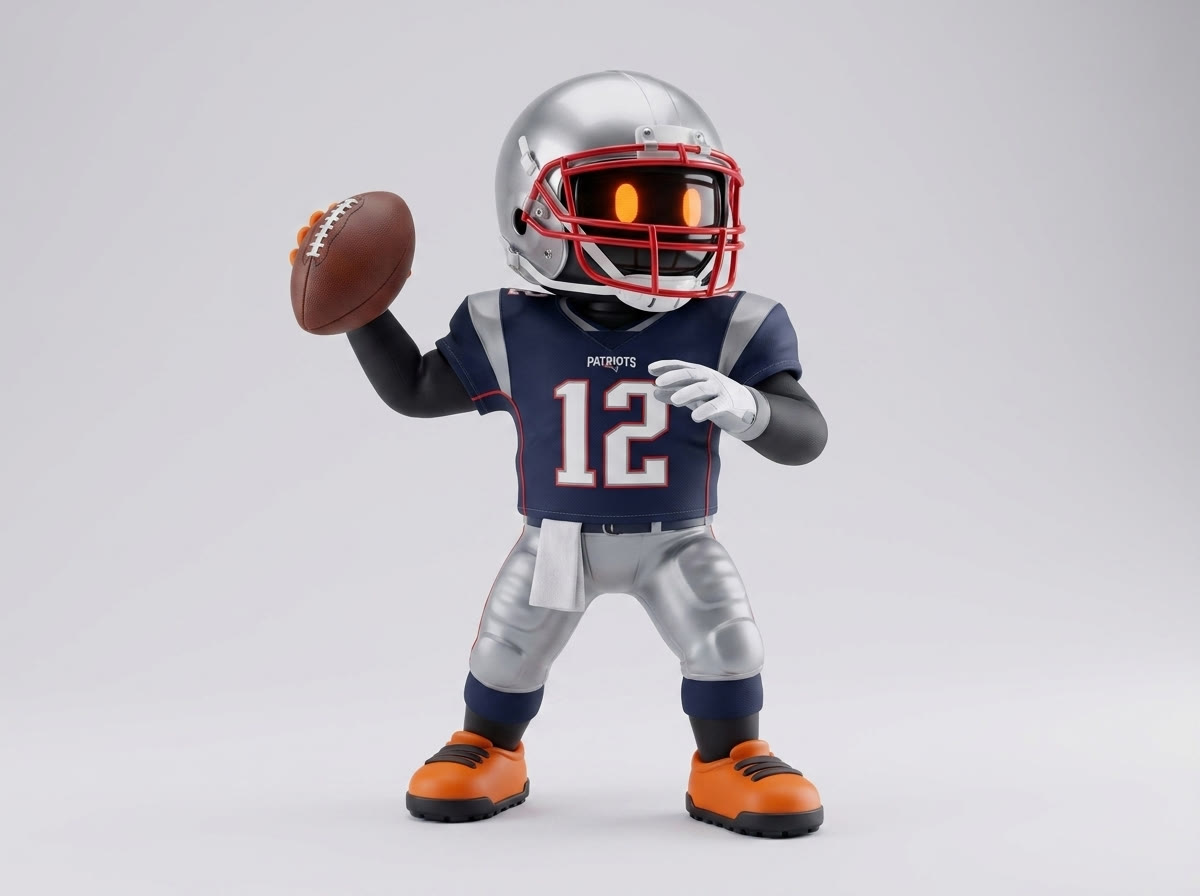
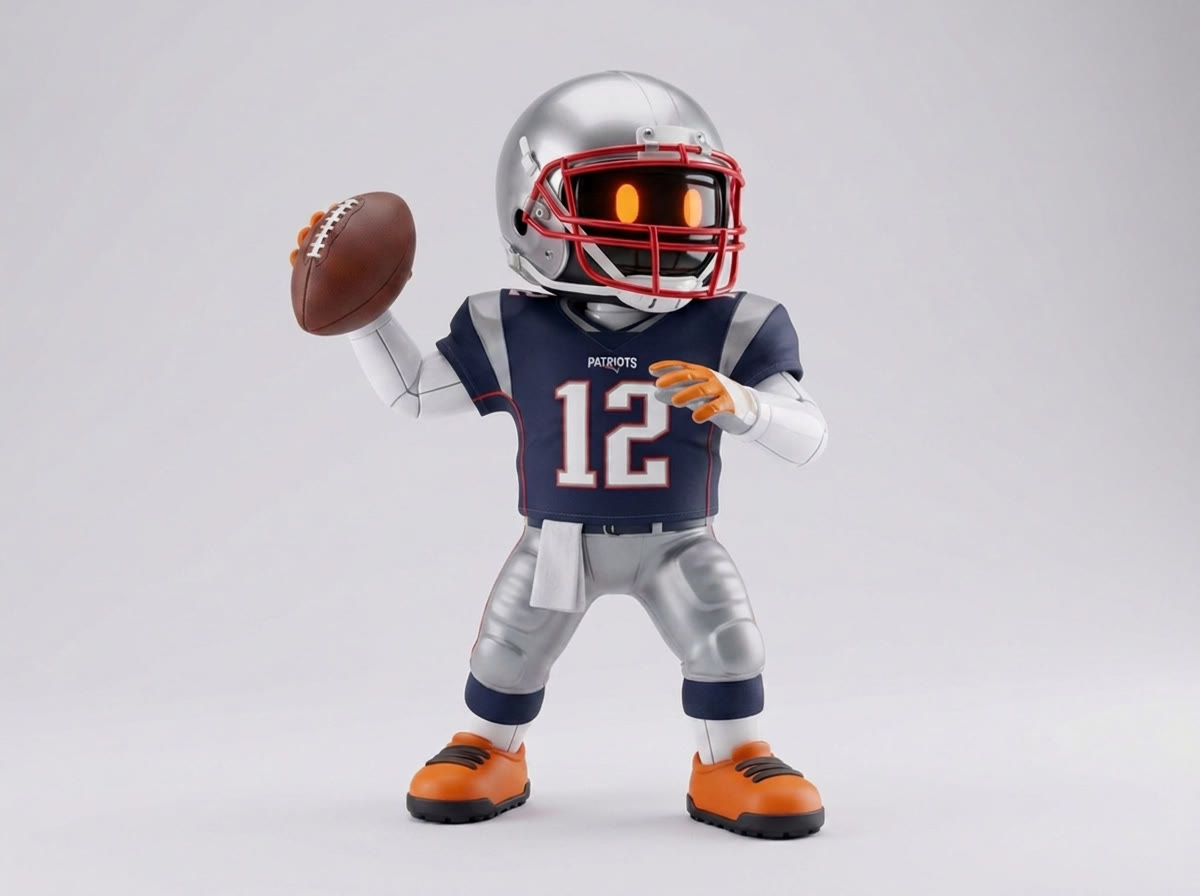
feat: Brady Bot goes white-shell
Both renders re-generated with a pristine white body — the home
colorway — keeping the uniform, poses, and orange accents. Fit list
and alt text updated to match.

Claude-Session: https://claude.ai/code/session_01KGGmAGPAvwDXRZzCcmfcH9

diff --git a/go-bot/src/data/persona.ts b/go-bot/src/data/persona.ts
@@ -128,6 +128,7 @@ export const personaFeatures: PersonaFeature[] = [
 			'apocalyptic in the pocket with the ball cocked back. Shown as a concept ' +
 			'for potential athlete-licensing partnerships.',
 		fit: [
+			'Pristine white shell — the home colorway',
 			'Navy 12 jersey with silver shoulder yokes and red piping',
 			'Black long-sleeve base layer under the pads',
 			'Silver game pants with a white towel tucked at the waist',
@@ -139,13 +140,13 @@ export const personaFeatures: PersonaFeature[] = [
 				src: '/assets/gobot/persona/brady-bot-sideline.jpg',
 				width: 1200,
 				height: 896,
-				alt: 'Brady Bot — Go-Bot in a navy number 12 football uniform holding a silver helmet under one arm and a football in the other hand',
+				alt: 'Brady Bot — white-shelled Go-Bot in a navy number 12 football uniform holding a silver helmet under one arm and a football in the other hand',
 			},
 			{
 				src: '/assets/gobot/persona/brady-bot-gameday.jpg',
 				width: 1200,
 				height: 896,
-				alt: 'Brady Bot in full gear — Go-Bot wearing the silver helmet with red facemask, eyes glowing through the cage, cocking a football back to throw',
+				alt: 'Brady Bot in full gear — white-shelled Go-Bot wearing the silver helmet with red facemask, eyes glowing through the cage, cocking a football back to throw',
 			},
 		],
 	},
